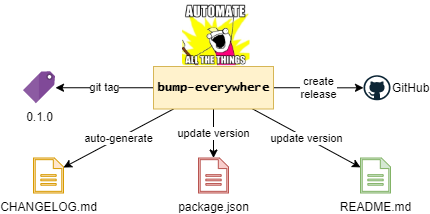
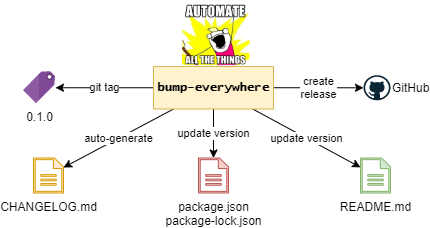
add package-lock.json bumping

Changed region(s): [[0.0, 0.3084, 0.9977, 1.0], [0.3326, 0.0, 0.6349, 0.3364]]

diff --git a/README.md b/README.md
@@ -95,7 +95,8 @@ It supports safe re-runs, it means that if you can run it for an already bumped 
 ### Option 4. Use scripts
 
 1. Ensure `bash` (4 or newer), `git`, `curl`, `jq` exists in your environment
-   - run e.g. `apk add bash git curl jq`
+   - On Alpine: `apk add bash git curl jq`
+   - On Windows: `choco install git curl jq` and use Git Bash
 2. Clone this repository: `git clone https://github.com/undergroundwires/bump-everywhere`
    - or optionally add this repository as git submodule: `git submodule add https://github.com/undergroundwires/bump-everywhere`
 3. Call the script: `bash "scripts/bump-everywhere.sh" <parameters>`
@@ -135,11 +136,7 @@ You can also use following scripts individually (check script files for usage, p
 - [ez-consent](https://github.com/undergroundwires/ez-consent#gitops)
 - [aws-static-site-with-cd](https://github.com/undergroundwires/aws-static-site-with-cd)
 
-## GitOps
-
-CI/CD is fully automated for this repo using different GIT events & GitHub actions.
-
-[![GitOps flow](./img/gitops.png)](./.github/workflows)
+[↑](#bump-everywhere)
 
 ## Support
 
@@ -150,5 +147,20 @@ CI/CD is fully automated for this repo using different GIT events & GitHub actio
 ```markdown
 [![Auto-versioned by bump-everywhere](https://github.com/undergroundwires/bump-everywhere/blob/master/badge.svg?raw=true)](https://github.com/undergroundwires/bump-everywhere)
 ```
+
+[↑](#bump-everywhere)
+
+## Tests
+
+- **Automated tests**: Run `.test.sh` files in [`./tests`](./tests/)
+- **Manual tests**: See documentation in [docker-entrypoint](./tests/docker-entrypoint)
+
+[↑](#bump-everywhere)
+
+## GitOps
+
+CI/CD is fully automated for this repo using different GIT events and GitHub actions.
+
+[![GitOps flow](./img/gitops.png)](./.github/workflows)
 
 [↑](#bump-everywhere)
